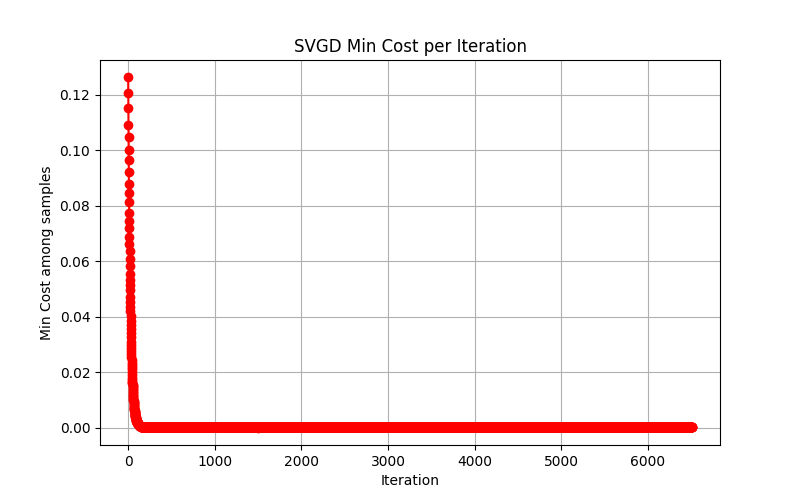
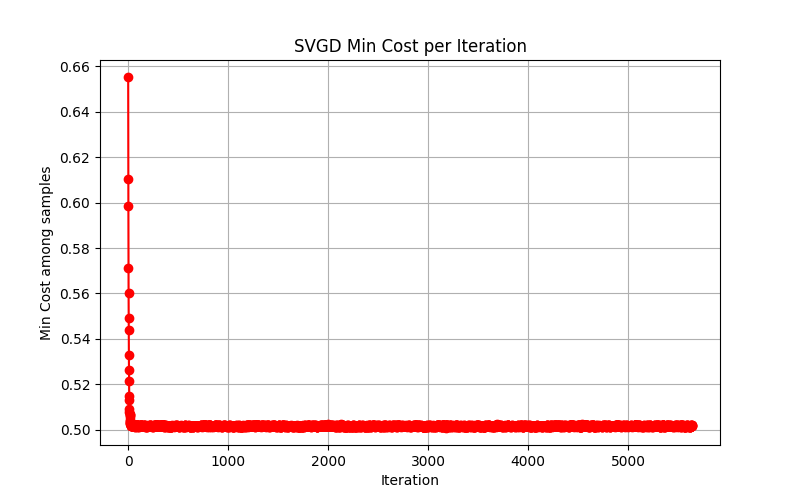
주석 추가

diff --git a/proj-svg_mppi/src/mppi_controller/src/stein_variational_guided_mppi.cpp b/proj-svg_mppi/src/mppi_controller/src/stein_variational_guided_mppi.cpp
@@ -43,6 +43,7 @@ SVGuidedMPPI::SVGuidedMPPI(const Params::Common& common_params, const Params::SV
     const size_t sample_num_for_cache = std::max(std::max(sample_batch_num, sample_num_for_grad_estimation), guide_sample_num);
     mpc_base_ptr_ = std::make_unique<MPCBase>(common_params, sample_num_for_cache);
     
+    // 현재 컨트롤 입력 1차원 가정
     const double max_Vx = common_params.max_Vx;
     const double min_Vx = common_params.min_Vx;
     // const double max_Vy = common_params.max_Vy;
@@ -69,8 +70,8 @@ SVGuidedMPPI::SVGuidedMPPI(const Params::Common& common_params, const Params::SV
     }
     
     // optimal action distribution 선언 (나중에 수정할 수 있도록 해야함, 현재 0과 identity로 선언함 N(0, I))
-    // optimal_mu_ = Eigen::VectorXd::Zero(CONTROL_SPACE::dim);
-    optimal_mu_ = Eigen::VectorXd::Constant(CONTROL_SPACE::dim, 1.0);
+    // optimal_mu_ = Eigen::VectorXd::Zero(CONTROL_SPACE::dim); // mean = 0
+    optimal_mu_ = Eigen::VectorXd::Constant(CONTROL_SPACE::dim, 2.0); // mean 값 조정 부분
     optimal_Sigma_ = Eigen::MatrixXd::Identity(CONTROL_SPACE::dim, CONTROL_SPACE::dim);
     inv_optimal_Sigma_ = optimal_Sigma_.inverse();
 }
@@ -109,7 +110,8 @@ std::pair<ControlSeq, double> SVGuidedMPPI::solve(const State& initial_state) {
     static int iter_count = 0;
     static int iteration_count = 0;
 
-// base cost만 반환하도록 수정한 func_calc_costs
+// 아래 3가지 func_calc_costs 함수 중 하나 선택하여 사용
+// 가우시안 분포 사용
 auto func_calc_costs = [this](const PriorSamplesWithCosts& sampler) -> std::vector<double> {
     std::vector<double> costs(sampler.get_num_samples(), 0.0);
     for (size_t i = 0; i < sampler.get_num_samples(); i++) {
@@ -126,9 +128,7 @@ auto func_calc_costs = [this](const PriorSamplesWithCosts& sampler) -> std::vect
     return costs;
 };
 
-// 예: SVGuidedMPPI::solve() 내 (혹은 비슷한 위치)에서 람다 함수를 정의
-// a, b, c를 외부에서 세팅할 수 있도록 인자를 받아 캡처하거나, SVGuidedMPPI 클래스 멤버로 두고 캡처해도 좋습니다.
-// 여기서는 예시로 double a_, b_, c_를 멤버에 두었다고 가정합니다.
+// 간단한 2차 함수 사용 (파라미터 mppi_controller.yaml 참고)
 // auto func_calc_costs = [this](const PriorSamplesWithCosts& sampler) -> std::vector<double> 
 // {
 //     // 결과를 담을 벡터
@@ -174,9 +174,7 @@ auto func_calc_costs = [this](const PriorSamplesWithCosts& sampler) -> std::vect
 // };
 
 
-// SVGuidedMPPI::solve() 함수 내에서, 혹은 유사한 위치에서 func_calc_costs 람다 정의
-// a_, p_, c_ 등을 SVGuidedMPPI 클래스 멤버로 두거나, capture로 넘겨줄 수도 있습니다.
-// 여기선 예시로 "a_, p_, c_"가 이미 멤버 변수로 존재한다고 가정.
+// 간단한 4차 함수 사용 (파라미터 mppi_controller.yaml 참고)
 // auto func_calc_costs = [this](const PriorSamplesWithCosts& sampler) -> std::vector<double> {
 //     std::vector<double> costs(sampler.get_num_samples(), 0.0);
 
@@ -236,6 +234,7 @@ auto func_calc_costs = [this](const PriorSamplesWithCosts& sampler) -> std::vect
             g_cost_log_file << iteration_count << "," << s << "," << costs[s] << "\n";
         }
         iteration_count++;
+
         costs_history.insert(costs_history.end(), costs.begin(), costs.end());
         control_seq_history.insert(control_seq_history.end(), guide_samples_ptr_->noised_control_seq_samples_.begin(),
                                     guide_samples_ptr_->noised_control_seq_samples_.end());
@@ -273,12 +272,7 @@ auto func_calc_costs = [this](const PriorSamplesWithCosts& sampler) -> std::vect
         }
     }
     iter_count++;
-    // for (size_t row = 0; row < (prediction_step_size_ - 1); row++) {
-    //     for (size_t col = 0; col < CONTROL_SPACE::dim; col++) {
-    //         double val = best_particle(row, col);
-    //         g_best_particle_log << iter_count << "," << row << "," << col << "," << val << "\n";
-    //     }
-    // }
+
     for (size_t t = 0; t < (prediction_step_size_ - 1); t++) {
         for (size_t dim = 0; dim < CONTROL_SPACE::dim; dim++) {
             double cov_val = covs[t](dim, dim);
@@ -304,12 +298,16 @@ auto func_calc_costs = [this](const PriorSamplesWithCosts& sampler) -> std::vect
     const double collision_rate = 0.0; // optimal 분포 기반이므로 collision 비용은 고려하지 않음.
     prev_control_seq_ = updated_control_seq;
 
+    // solve마다 가우시안 평균값 조정(이동), 현재는 디버깅 중이니 사용 안함
     // optimal_mu_ += Eigen::VectorXd::Constant(CONTROL_SPACE::dim, optimal_offset_step_);
     // b_ += optimal_offset_step_;
+    
+    // 새로 샘플링하는 부분
     // for debug
     // {
     //     guide_samples_ptr_->random_sampling(nominal_control_seq_, covs);
     // }
+
     return std::make_pair(updated_control_seq, collision_rate);
 }
 
@@ -324,7 +322,6 @@ ControlSeq SVGuidedMPPI::approx_grad_log_likelihood(const ControlSeq& mean_seq,
                                                       int iteration_count) const {
     const ControlSeqCovMatrices grad_cov = sampler->get_constant_control_seq_cov_matrices({Vx_cov_for_grad_estimation_});
     sampler->random_sampling(noised_seq, grad_cov);
-    // cost는 combined cost (optimal NLL + penalty)로 계산됨
     sampler->costs_ = calc_costs(*sampler);
     std::vector<double> exp_costs(sampler->get_num_samples());
     ControlSeq sum_of_grads = mean_seq * 0.0;
@@ -333,7 +330,8 @@ ControlSeq SVGuidedMPPI::approx_grad_log_likelihood(const ControlSeq& mean_seq,
 #pragma omp parallel for num_threads(thread_num_)
     for (size_t i = 0; i < sampler->get_num_samples(); i++) {
         double cost_with_control_term = sampler->costs_[i];
-        // penalty 항을 다시 추가하여
+        
+        // Control penalty 항 추가
         // for (size_t j = 0; j < prediction_step_size_ - 1; j++) {
         //     const double diff_control_term = grad_lambda_ * (prev_control_seq_.row(j) - sampler->noised_control_seq_samples_[i].row(j))
         //                                      * inv_covs[j] *
@@ -386,7 +384,7 @@ ControlSeq SVGuidedMPPI::approx_grad_log_likelihood(const ControlSeq& mean_seq,
 
 ControlSeqBatch SVGuidedMPPI::approx_grad_posterior_batch(
     const PriorSamplesWithCosts& samples,
-    const std::function<std::vector<double>(const PriorSamplesWithCosts&)>& calc_costs_placeholder) const {
+    const std::function<std::vector<double>(const PriorSamplesWithCosts&)>& calc_costs) const {
     
     // --- [Modified] 로그 파일 추가: 각 샘플의 gradient 저장 (svgd_gradient_log.csv) ---
     static std::ofstream g_gradient_log_file;
@@ -400,10 +398,12 @@ ControlSeqBatch SVGuidedMPPI::approx_grad_posterior_batch(
     
     ControlSeqBatch grad_log_likelihoods = samples.get_zero_control_seq_batch();
     const ControlSeq mean = samples.get_mean();
+
     for (size_t i = 0; i < samples.get_num_samples(); i++) {
         const ControlSeq grad_log_likelihood = approx_grad_log_likelihood(
-            mean, samples.noised_control_seq_samples_[i], samples.get_inv_cov_matrices(), calc_costs_placeholder, grad_sampler_ptrs_.at(i).get(), i, iteration_count);
+            mean, samples.noised_control_seq_samples_[i], samples.get_inv_cov_matrices(), calc_costs, grad_sampler_ptrs_.at(i).get(), i, iteration_count);
         grad_log_likelihoods[i] = grad_log_likelihood;
+        
         // [Modified] 각 샘플의 gradient를 CSV에 저장
         for (size_t row = 0; row < grad_log_likelihood.rows(); row++) {
             for (size_t col = 0; col < grad_log_likelihood.cols(); col++) {
@@ -492,8 +492,7 @@ std::pair<double, double> SVGuidedMPPI::gaussian_fitting(const std::vector<doubl
     return std::make_pair(mean, variance);
 }
 
-// --- 다음 함수들은 MPCTemplate 인터페이스 준수를 위한 스텁 구현입니다. ---
-// 환경 기반 cost 계산이나 상태 예측을 사용하지 않으므로 기본 동작만 제공합니다.
+// --- 다음 함수들은 MPCTemplate 인터페이스 준수를 위한 스텁 구현 ---
 
 void SVGuidedMPPI::set_obstacle_map(const grid_map::GridMap& obstacle_map) {
     // optimal action distribution 기반에서는 사용하지 않음.

diff --git a/proj-svg_mppi/src/mppi_controller/src/mppi_controller_ros.cpp b/proj-svg_mppi/src/mppi_controller/src/mppi_controller_ros.cpp
@@ -76,8 +76,8 @@ void MPPIControllerROS::timer_callback([[maybe_unused]] const ros::TimerEvent& t
     // twist 메시지 생성: updated_control_seq의 첫 행 사용
     geometry_msgs::Twist twist_cmd;
     twist_cmd.linear.x  = updated_control_seq(0, CONTROL_SPACE::Vx);
-    // twist_cmd.linear.y  = updated_control_seq(0, CONTROL_SPACE::Vy);
-    // twist_cmd.angular.z = updated_control_seq(0, CONTROL_SPACE::Wz);
+    // // twist_cmd.linear.y  = updated_control_seq(0, CONTROL_SPACE::Vy);
+    // // twist_cmd.angular.z = updated_control_seq(0, CONTROL_SPACE::Wz);
     pub_twist_cmd_.publish(twist_cmd);
 
     ROS_INFO_THROTTLE(2.0, "[MPPIControllerROS] Twist published: (Vx=%.2f)",

diff --git a/proj-svg_mppi/script/svgd_transport_plot.py b/proj-svg_mppi/script/svgd_transport_plot.py
@@ -233,7 +233,7 @@ time_step_target = 0
 dim_target = 0
 
 # Optimal Action Distribution (Gaussian) 파라미터 설정
-initial_mu_opt = 1.0       # 초기 평균
+initial_mu_opt = 2.0       # 초기 평균
 sigma_opt = 1.0            # 표준편차
 optimal_offset_step = 0.0  # best_iter_interval마다 분포 평균이 이동하는 양
 
